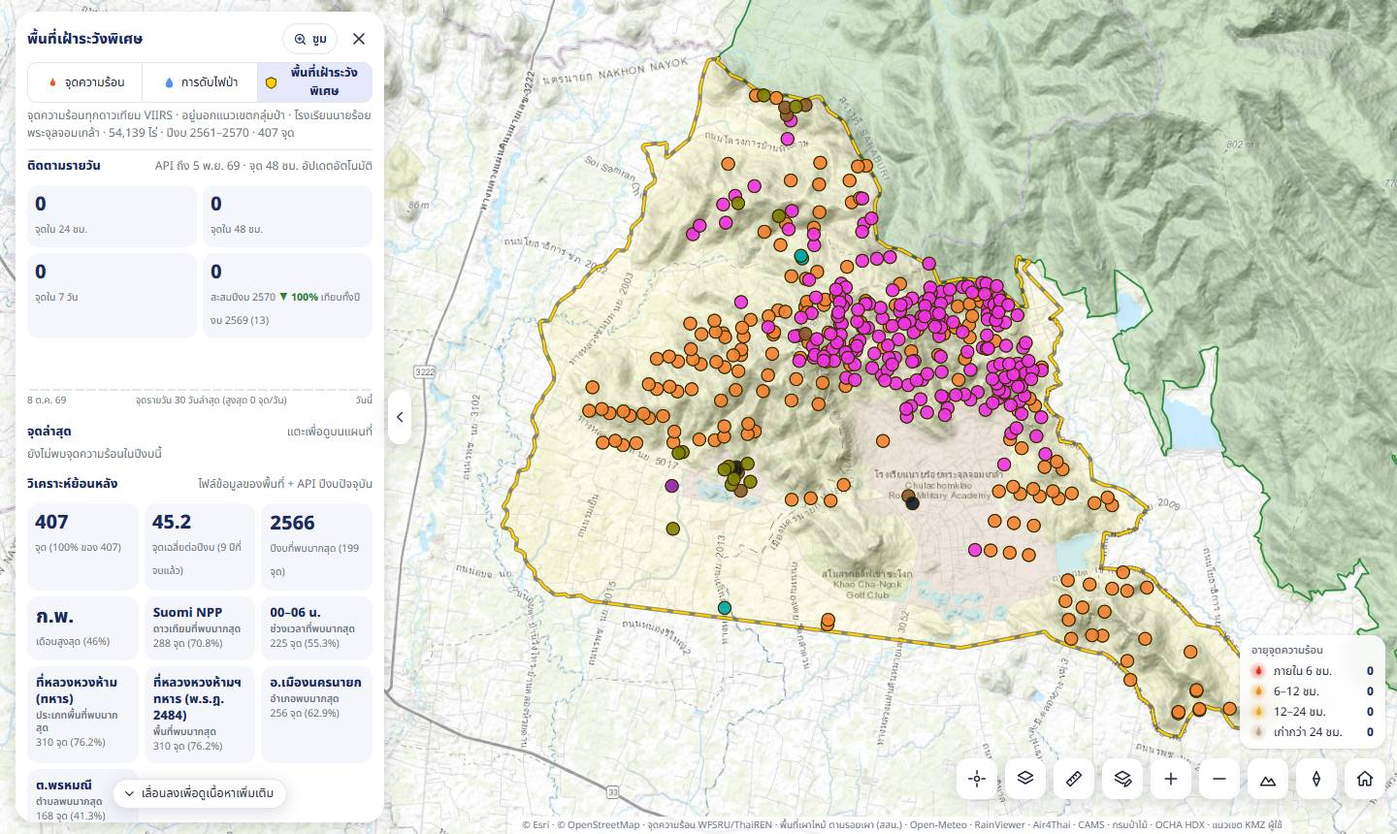
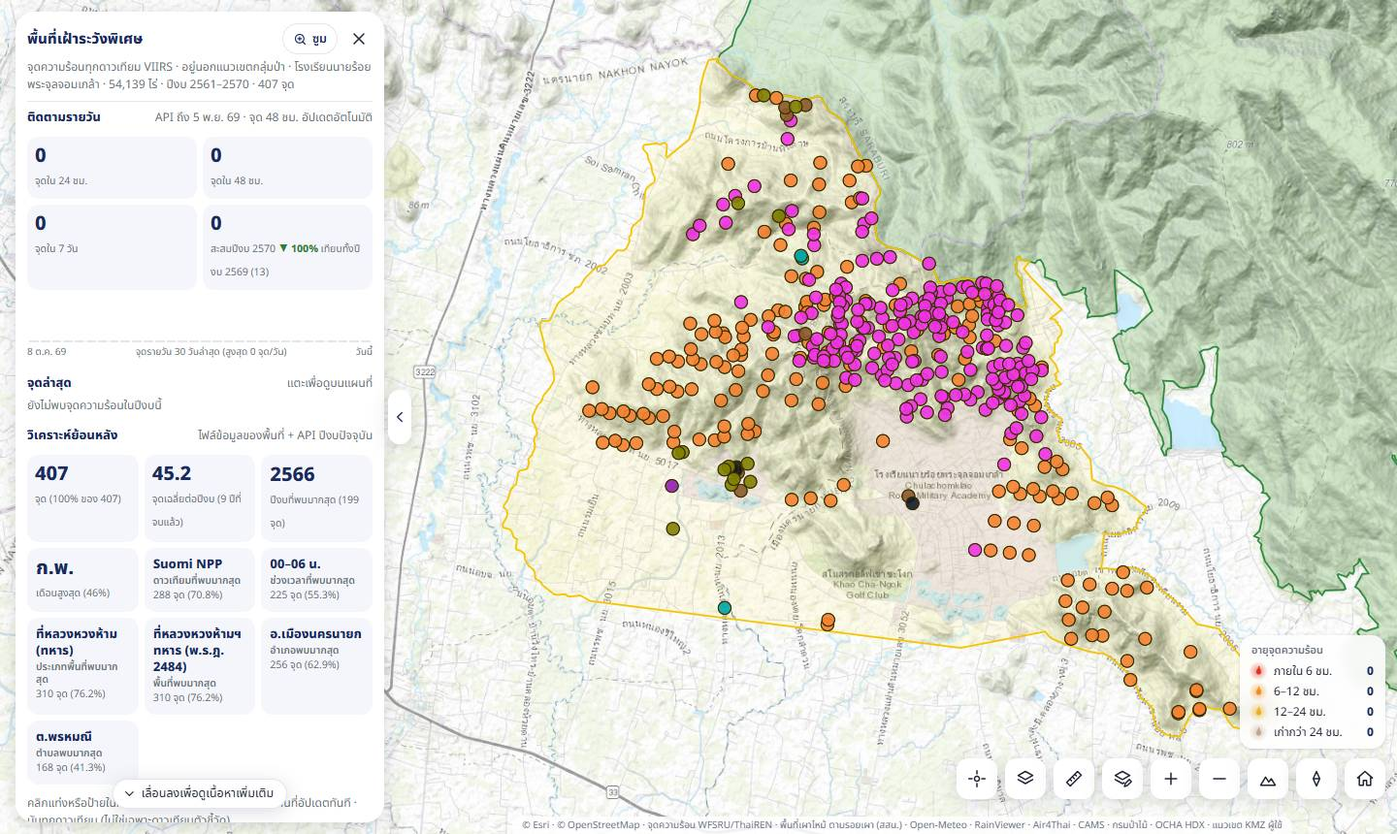
พื้นที่เฝ้าระวังพิเศษ: ย้ายจากแท็บการ์ดสถิติเป็นปุ่มเมนูหลักแถว 3 (3 ปุ่ม) · ชื่อหมวดชั้นข้อมูล "พื้นที่เฝ้าระวังพิเศษ" · เส้นแนวเขตเหลืองเส้นเดียวกว้างเท่าพื้นที่อนุรักษ์ · แก้ตัวอักษรข้อสังเกตใหญ่ผิดปกติ · เมนู "ความสำคัญ" → "ข้อมูลพื้นฐาน" + คู่มือ/ภาพ

diff --git a/index.html b/index.html
@@ -55,9 +55,9 @@ h1 small{display:block;font-size:.42em;font-weight:600;color:var(--mut);margin-t
 .st b{text-align:right;font-size:22px;line-height:1.25;font-weight:800}
 .st b:first-child{color:var(--fire)}.st span{align-self:center}
 .sm{font-size:12px;color:var(--mut)}
-.btns{display:grid;grid-template-columns:1fr 1fr;gap:8px;margin:12px 0} /* 2 คอลัมน์เท่ากัน กว้างเต็มแผงเสมอกับกล่องบน-ล่าง (ผู้ใช้ขอ 5 พ.ย. 69) */
+.btns{display:grid;grid-template-columns:repeat(6,1fr);gap:8px;margin:12px 0}.btns>.btn{grid-column:span 3}.btns>.btn.b3{grid-column:span 2;flex-direction:column;justify-content:center;align-items:center;text-align:center;gap:3px;padding:6px 4px;font-size:12px;line-height:1.2} /* แถว 3 มี 3 ปุ่ม (ผู้ใช้ขอ 6 พ.ย. 69) ไอคอนบน ข้อความล่าง */ /* 2 คอลัมน์เท่ากัน กว้างเต็มแผงเสมอกับกล่องบน-ล่าง (ผู้ใช้ขอ 5 พ.ย. 69) */
 .btns>.btn{justify-content:flex-start;min-width:0;min-height:42px;padding:6px 12px;line-height:1.25;text-align:left}.btns>.btn span{min-width:0}
-@media(max-width:767px){.btns>.btn{padding:6px 10px;gap:5px;font-size:12.5px}}#bDev{display:flex;align-items:center;justify-content:center;gap:5px;width:min(335px,100%);margin:12px 0 0;padding:8px;border:0;background:var(--glass);backdrop-filter:blur(6px);box-shadow:0 1px 4px rgba(20,30,60,.12);font:inherit;font-size:12px;color:var(--mut);text-align:center;cursor:pointer;border-radius:20px}#bDev:hover{color:var(--navy);background:var(--sel)}#bDev .i{width:14px;height:14px;flex:none}#bDev b{font-weight:600;color:var(--ink)}#bDev:hover b{color:var(--navy)}.dvb{display:flex;gap:14px;align-items:flex-start}.dvb .dva{flex:none;width:52px;height:52px;border-radius:50%;background:var(--sel);color:var(--navy);display:grid;place-items:center}.dvb .dva .i{width:26px;height:26px}.dvb p{margin:0 0 4px;line-height:1.6}.dvb .dvn{font-size:17px;font-weight:700;color:var(--navy)}.dvb .dvo{color:var(--mut);font-size:13.5px}.btn[aria-pressed=true]{background:var(--sel);color:var(--navy)}
+@media(max-width:767px){.btns>.btn{padding:6px 10px;gap:5px;font-size:12.5px}.btns>.btn.b3{padding:6px 3px;gap:3px;font-size:11.5px}}#bDev{display:flex;align-items:center;justify-content:center;gap:5px;width:min(335px,100%);margin:12px 0 0;padding:8px;border:0;background:var(--glass);backdrop-filter:blur(6px);box-shadow:0 1px 4px rgba(20,30,60,.12);font:inherit;font-size:12px;color:var(--mut);text-align:center;cursor:pointer;border-radius:20px}#bDev:hover{color:var(--navy);background:var(--sel)}#bDev .i{width:14px;height:14px;flex:none}#bDev b{font-weight:600;color:var(--ink)}#bDev:hover b{color:var(--navy)}.dvb{display:flex;gap:14px;align-items:flex-start}.dvb .dva{flex:none;width:52px;height:52px;border-radius:50%;background:var(--sel);color:var(--navy);display:grid;place-items:center}.dvb .dva .i{width:26px;height:26px}.dvb p{margin:0 0 4px;line-height:1.6}.dvb .dvn{font-size:17px;font-weight:700;color:var(--navy)}.dvb .dvo{color:var(--mut);font-size:13.5px}.btn[aria-pressed=true]{background:var(--sel);color:var(--navy)}
 .btn{display:inline-flex;align-items:center;gap:6px;min-height:40px;padding:0 14px;background:var(--bg);border:0;border-radius:14px;box-shadow:var(--sh);font-size:13px}
 a.btn{color:inherit;text-decoration:none;cursor:pointer}
 .card{background:var(--bg);border-radius:20px;box-shadow:var(--sh);width:min(335px,100%);padding:12px}
@@ -294,7 +294,7 @@ hr.l{border:0;border-top:1px solid var(--line);margin:10px 0}
 /* ตัวเลือกประเภทพื้นที่/ช่วงเวลา/การจัดการเชื้อเพลิง: แถวเดียว ปุ่มกว้างเท่ากัน ชื่อบน ตัวเลขล่าง (ผู้ใช้ขอให้กระชับ) */
 .chs.r1{flex-wrap:nowrap;gap:4px}.chs.r1 .ch{flex:1 1 0;min-width:0;display:flex;flex-direction:column;align-items:center;justify-content:center;padding:3px 2px;border-radius:12px;line-height:1.3;text-align:center}@media(max-width:767px){.chs.r1 .ch{font-size:11.5px}}
 .chs.r1 .ch span{max-width:100%;white-space:nowrap;overflow:hidden;text-overflow:ellipsis}.chs.r1 em{font-size:11px}
-#h-ins,#x-ins{margin:4px 0;padding-left:18px;font-size:12.5px}#h-ins li,#x-ins li{margin:4px 0}
+#h-ins,#x-ins,#w-ins{margin:4px 0;padding-left:18px;font-size:12.5px}#h-ins li,#x-ins li,#w-ins li{margin:4px 0}
 .pbr{display:flex;align-items:center;gap:8px}
 #pbf{position:fixed;z-index:6;left:16px;right:16px;bottom:calc(36px + env(safe-area-inset-bottom));width:auto;max-width:640px;margin:0 auto;padding:8px 12px 10px;border-radius:16px}
 #pbf[hidden]{display:none}
@@ -306,7 +306,7 @@ hr.l{border:0;border-top:1px solid var(--line);margin:10px 0}
 .mh{display:flex;align-items:center;gap:8px;padding:12px 16px;border-bottom:1px solid var(--line);position:sticky;top:0;background:var(--bg)}.mh b{flex:1;font-size:17px;color:var(--navy)}.mb{padding:14px 16px}
 .rd{display:flex;align-items:center;gap:8px;min-height:32px;font-size:13px}.rd.dis{opacity:.5}
 .hb,.vb,.ch{user-select:none;-webkit-user-select:none}
-#hcard.xtm .hs-only,#hcard:not(.xtm) .xt-only{display:none!important}#hcard.wam .hs-only,#hcard:not(.wam) .wa-only{display:none!important}
+#hcard.xtm .hs-only,#hcard:not(.xtm) .xt-only{display:none!important}#hcard.wam .hs-only,#hcard:not(.wam) .wa-only,#hcard.wam #h-tab{display:none!important}
 .kp [data-wk]{cursor:pointer;border:1.5px solid transparent}.kp [data-wk]:hover{border-color:#c9d1e3}.kp [data-wk].on{border-color:var(--navy);background:var(--sel)}
 .kp.w2{grid-template-columns:repeat(2,1fr)}.kp.w2 em.up{color:#c0392b}.kp.w2 em.dn{color:#2e7d32}.kp.w2 em.eq{color:var(--mut)}
 .wdb{display:flex;align-items:flex-end;gap:2px;height:44px;margin:6px 0 2px;padding:0 2px}.wdb i{flex:1;background:#e8741c;border-radius:2px 2px 0 0}.wdb i.z{background:#e3e6ea}
@@ -461,7 +461,7 @@ hr.l{border:0;border-top:1px solid var(--line);margin:10px 0}
 <div id="ld" role="status">กำลังโหลดแผนที่…</div>
 <div id="map"></div>
 <canvas id="wc" aria-hidden="true"></canvas><div id="tip"></div>
-<div id="kb" hidden role="dialog" aria-modal="true" aria-labelledby="kb-t"><div class="kb-top"><span class="kb-lg"><svg class="i" viewBox="0 0 24 24"><path d="M5 19c9 0 14-6 14-14-8 0-14 5-14 14zM5 19l6-6"/></svg></span><div><b id="kb-t">ความสำคัญของผืนป่า</b><small>กลุ่มป่าดงพญาเย็น-เขาใหญ่ · มรดกโลกทางธรรมชาติ · ความรู้รายพื้นที่อนุรักษ์</small></div><button class="cb ib" id="kb-x" aria-label="ปิดหน้าความสำคัญ"><svg class="i" viewBox="0 0 24 24"><path d="M6 6l12 12M18 6L6 18"/></svg></button></div><nav class="kb-nav" id="kb-nav" role="tablist" aria-label="เลือกพื้นที่"></nav><div class="kb-body" id="kb-body"><div class="kb-in"><section class="kb-hero" id="kb-hero"></section><div class="kb-grid"><div class="kb-mapw"><div id="kb-map" role="region" aria-label="แผนที่ประกอบ"></div><div class="kb-mt" id="kb-mt"><button data-b="topo" aria-pressed="true">ภูมิประเทศ</button><button data-b="img" aria-pressed="false">ดาวเทียม</button><button data-b="ft" aria-pressed="false">ชนิดป่า</button></div><div class="kb-ml" id="kb-ml"></div></div><div class="kb-cards" id="kb-c"></div></div><div class="kb-src" id="kb-src"></div></div></div></div>
+<div id="kb" hidden role="dialog" aria-modal="true" aria-labelledby="kb-t"><div class="kb-top"><span class="kb-lg"><svg class="i" viewBox="0 0 24 24"><path d="M5 19c9 0 14-6 14-14-8 0-14 5-14 14zM5 19l6-6"/></svg></span><div><b id="kb-t">ข้อมูลพื้นฐานของผืนป่า</b><small>กลุ่มป่าดงพญาเย็น-เขาใหญ่ · มรดกโลกทางธรรมชาติ · ความรู้รายพื้นที่อนุรักษ์</small></div><button class="cb ib" id="kb-x" aria-label="ปิดหน้าข้อมูลพื้นฐาน"><svg class="i" viewBox="0 0 24 24"><path d="M6 6l12 12M18 6L6 18"/></svg></button></div><nav class="kb-nav" id="kb-nav" role="tablist" aria-label="เลือกพื้นที่"></nav><div class="kb-body" id="kb-body"><div class="kb-in"><section class="kb-hero" id="kb-hero"></section><div class="kb-grid"><div class="kb-mapw"><div id="kb-map" role="region" aria-label="แผนที่ประกอบ"></div><div class="kb-mt" id="kb-mt"><button data-b="topo" aria-pressed="true">ภูมิประเทศ</button><button data-b="img" aria-pressed="false">ดาวเทียม</button><button data-b="ft" aria-pressed="false">ชนิดป่า</button></div><div class="kb-ml" id="kb-ml"></div></div><div class="kb-cards" id="kb-c"></div></div><div class="kb-src" id="kb-src"></div></div></div></div>
 <div id="wy" hidden role="dialog" aria-modal="true" aria-labelledby="wy-t"><div class="wy-h"><span class="kb-lg" style="background:linear-gradient(135deg,#4aa3df,#1b3a6b)"><svg class="i" viewBox="0 0 24 24"><path d="M3 8h11a3 3 0 10-3-3M3 12h16a3 3 0 11-3 3M3 16h7"/></svg></span><b id="wy-t" title="Windy · แบบจำลอง ECMWF (ฝุ่น = CAMS) · กดปุ่มเล่นด้านล่างเพื่อดูพยากรณ์ล่วงหน้า · แตะแผนที่เพื่อดูค่าของจุดนั้น · ไม่มีแนวเขตกลุ่มป่า">พยากรณ์อากาศ</b><nav class="kb-nav wy-nav" id="wy-nav" role="tablist" aria-label="เลือกชั้นข้อมูลอากาศ"></nav><button class="wy-dt" id="wy-dt" aria-pressed="false" title="แสดง/ซ่อนตารางพยากรณ์รายชั่วโมงของจุดกลางแผนที่ (ซ่อนแล้วแผนที่ใหญ่ขึ้น)"><svg class="i" viewBox="0 0 24 24"><rect x="3" y="4" width="18" height="16" rx="2"/><path d="M3 10h18M9 10v10"/></svg><span>ตารางพยากรณ์</span></button><button class="cb ib" id="wy-x" aria-label="ปิดหน้าพยากรณ์อากาศ"><svg class="i" viewBox="0 0 24 24"><path d="M6 6l12 12M18 6L6 18"/></svg></button></div><iframe id="wy-f" title="แผนที่พยากรณ์อากาศ Windy" allow="fullscreen"></iframe></div>
 <div class="md" id="md" hidden role="dialog" aria-modal="true" aria-labelledby="md-t"><div class="mc"><div class="mh"><b id="md-t"></b><button class="cb ib" id="md-x" aria-label="ปิด"><svg class="i" viewBox="0 0 24 24"><path d="M6 6l12 12M18 6L6 18"/></svg></button></div><div class="mb" id="md-b"></div></div></div>
 <div id="toast" role="status"></div>
@@ -480,11 +480,12 @@ hr.l{border:0;border-top:1px solid var(--line);margin:10px 0}
  </div>
  <div class="btns">
   <button class="btn" id="bHide" aria-pressed="true" title="แสดง/ซ่อนการ์ดจุดความร้อนที่ตรวจพบ"><svg class="i" viewBox="0 0 24 24"><path d="M12 3c1 3.5 5 5.5 5 10a5 5 0 01-10 0c0-2.5 1.5-4 2.5-5.5.3 1.6 1 2.6 2 3 0-3 .5-5.5.5-7.5z"/></svg><span>จุดความร้อนที่ตรวจพบ</span></button>
-  <button class="btn" id="bKnow" title="ความสำคัญ ประวัติ ทรัพยากร สัตว์ป่า แหล่งท่องเที่ยว รายพื้นที่อนุรักษ์"><svg class="i" viewBox="0 0 24 24"><path d="M5 19c9 0 14-6 14-14-8 0-14 5-14 14zM5 19l6-6"/></svg>ความสำคัญ</button>
+  <button class="btn" id="bKnow" title="ข้อมูลพื้นฐาน: ความสำคัญ ประวัติ ทรัพยากร สัตว์ป่า แหล่งท่องเที่ยว รายพื้นที่อนุรักษ์"><svg class="i" viewBox="0 0 24 24"><path d="M5 19c9 0 14-6 14-14-8 0-14 5-14 14zM5 19l6-6"/></svg>ข้อมูลพื้นฐาน</button>
   <button class="btn" id="bWy" title="แผนที่พยากรณ์อากาศ Windy: ลม ฝน ฟ้าคะนอง อุณหภูมิ ความชื้น เมฆ ฝุ่น"><svg class="i" viewBox="0 0 24 24"><path d="M3 8h11a3 3 0 10-3-3M3 12h16a3 3 0 11-3 3M3 16h7"/></svg>พยากรณ์อากาศ</button>
   <button class="btn" id="bStat"><svg class="i" viewBox="0 0 24 24"><path d="M4 20h16M7 16v-5M12 16V6M17 16v-8"/></svg>วิเคราะห์สถิติย้อนหลัง</button>
-  <button class="btn" id="bPlay"><svg class="i" viewBox="0 0 24 24"><path d="M3 12a9 9 0 109-9 9 9 0 00-6.4 2.6L3 8M3 3v5h5M12 7v5l3 2"/></svg>ย้อนดูการลามของไฟ</button>
-  <a class="btn" id="bMan" href="manual/index.html" target="_blank" rel="noopener" title="คู่มือการใช้งาน: ส่วนประกอบหน้าจอ เมนู ชั้นข้อมูล ที่มาข้อมูล วิธีคิด และการอ้างอิง"><svg class="i" viewBox="0 0 24 24"><path d="M4 5a2 2 0 012-2h13v16H6a2 2 0 00-2 2zM4 21V5M9 7h6"/></svg>คู่มือการใช้งาน</a>
+  <button class="btn b3" id="bWch" title="พื้นที่เฝ้าระวังพิเศษ (โรงเรียนนายร้อยพระจุลจอมเกล้า): ติดตามจุดความร้อนรายวันและวิเคราะห์ย้อนหลัง"><svg class="i" viewBox="0 0 24 24"><path d="M12 3l8 3.5v5.5c0 4.5-3.5 7.5-8 9-4.5-1.5-8-4.5-8-9V6.5z" style="fill:#ffd000;stroke:#6b5200"/><circle cx="12" cy="11.5" r="2.6" style="fill:#fff;stroke:#6b5200"/></svg><span>พื้นที่เฝ้าระวังพิเศษ</span></button>
+  <button class="btn b3" id="bPlay"><svg class="i" viewBox="0 0 24 24"><path d="M3 12a9 9 0 109-9 9 9 0 00-6.4 2.6L3 8M3 3v5h5M12 7v5l3 2"/></svg>ย้อนดูการลามของไฟ</button>
+  <a class="btn b3" id="bMan" href="manual/index.html" target="_blank" rel="noopener" title="คู่มือการใช้งาน: ส่วนประกอบหน้าจอ เมนู ชั้นข้อมูล ที่มาข้อมูล วิธีคิด และการอ้างอิง"><svg class="i" viewBox="0 0 24 24"><path d="M4 5a2 2 0 012-2h13v16H6a2 2 0 00-2 2zM4 21V5M9 7h6"/></svg>คู่มือการใช้งาน</a>
  </div>
  <div class="card" id="pcard" aria-label="สรุปจุดความร้อนที่ตรวจพบ">
   <div class="ph"><b>จุดความร้อนที่ตรวจพบ</b><span class="smp" id="p-smp" title="ยอดสะสมปีงบประมาณปัจจุบันเป็นข้อมูลตัวอย่าง เพราะ API ให้ข้อมูลย้อนหลังเพียง 48 ชม. และระบบยังไม่ได้เก็บสะสม">ข้อมูลตัวอย่าง</span></div>
@@ -509,7 +510,7 @@ hr.l{border:0;border-top:1px solid var(--line);margin:10px 0}
   <div class="pbt"><button id="p-tbl"><svg class="i" viewBox="0 0 24 24"><rect x="3" y="4" width="18" height="16" rx="2"/><path d="M3 10h18M9 10v10"/></svg>ตารางรายละเอียด</button><button id="p-csv"><svg class="i" viewBox="0 0 24 24"><path d="M12 4v11m0 0l-4-4m4 4l4-4M5 20h14"/></svg>ดาวน์โหลด CSV</button><button id="p-pdf"><svg class="i" viewBox="0 0 24 24"><path d="M7 8V3h10v5M7 17H4v-7h16v7h-3M7 14h10v7H7z"/></svg>รายงาน PDF</button></div>
  </div>
 <div class="card hc" id="hcard" hidden aria-label="สถิติจุดความร้อนย้อนหลัง">
-  <div class="hh"><b class="ht" id="h-ttl">สถิติจุดความร้อนย้อนหลัง</b><button class="hp" id="h-fit" aria-label="ซูมไปที่ข้อมูลที่กรอง" title="ซูมไปที่ข้อมูลที่กรอง"><svg class="i" viewBox="0 0 24 24"><circle cx="11" cy="11" r="7"/><path d="M20 20l-4-4M11 8v6M8 11h6"/></svg>ซูม</button><button class="hp" id="h-rs" hidden aria-label="รีเซ็ตตัวกรอง">รีเซ็ต</button><button class="cb ib" id="h-x" aria-label="ปิดการ์ดสถิติ"><svg class="i" viewBox="0 0 24 24"><path d="M6 6l12 12M18 6L6 18"/></svg></button><div class="seg htab" id="h-tab" role="group" aria-label="ชุดข้อมูลสถิติย้อนหลัง"><button data-v="hs"><svg class="i" viewBox="0 0 24 24"><path d="M12 2c1 4-4 6-4 11a4 4 0 008 0c0-2-1-3-1-5-1 1-1.5 2-2 2 1-3 0-6-1-8z" style="fill:#e8541c;stroke:none"/></svg>จุดความร้อน</button><button data-v="xt"><svg class="i" viewBox="0 0 24 24"><path d="M12 3s6 7 6 11a6 6 0 01-12 0c0-4 6-11 6-11z" style="fill:#5b8def;stroke:none"/></svg>การดับไฟป่า</button><button data-v="wa"><svg class="i" viewBox="0 0 24 24"><path d="M12 3l8 3.5v5.5c0 4.5-3.5 7.5-8 9-4.5-1.5-8-4.5-8-9V6.5z" style="fill:#ffd000;stroke:#6b5200"/></svg>พื้นที่เฝ้าระวังพิเศษ</button></div><div class="sm hsub"><span class="hs-only">ข้อมูลจากดาวเทียม ตัวชี้วัดกรมอุทยานฯ Suomi NPP (ตั้งแต่ 2 พ.ย. 69 ใช้ NOAA-20) ระบบ VIIRS · <span id="h-rng"></span></span><span class="xt-only">ข้อมูลการดับไฟป่าจากรายงานสถิติดับไฟรวม อส. · <span id="x-rng"></span></span><span class="wa-only">จุดความร้อนทุกดาวเทียม VIIRS · อยู่นอกแนวเขตกลุ่มป่า · <span id="w-rng"></span></span></div></div>
+  <div class="hh"><b class="ht" id="h-ttl">สถิติจุดความร้อนย้อนหลัง</b><button class="hp" id="h-fit" aria-label="ซูมไปที่ข้อมูลที่กรอง" title="ซูมไปที่ข้อมูลที่กรอง"><svg class="i" viewBox="0 0 24 24"><circle cx="11" cy="11" r="7"/><path d="M20 20l-4-4M11 8v6M8 11h6"/></svg>ซูม</button><button class="hp" id="h-rs" hidden aria-label="รีเซ็ตตัวกรอง">รีเซ็ต</button><button class="cb ib" id="h-x" aria-label="ปิดการ์ดสถิติ"><svg class="i" viewBox="0 0 24 24"><path d="M6 6l12 12M18 6L6 18"/></svg></button><div class="seg htab" id="h-tab" role="group" aria-label="ชุดข้อมูลสถิติย้อนหลัง"><button data-v="hs"><svg class="i" viewBox="0 0 24 24"><path d="M12 2c1 4-4 6-4 11a4 4 0 008 0c0-2-1-3-1-5-1 1-1.5 2-2 2 1-3 0-6-1-8z" style="fill:#e8541c;stroke:none"/></svg>จุดความร้อน</button><button data-v="xt"><svg class="i" viewBox="0 0 24 24"><path d="M12 3s6 7 6 11a6 6 0 01-12 0c0-4 6-11 6-11z" style="fill:#5b8def;stroke:none"/></svg>การดับไฟป่า</button></div><div class="sm hsub"><span class="hs-only">ข้อมูลจากดาวเทียม ตัวชี้วัดกรมอุทยานฯ Suomi NPP (ตั้งแต่ 2 พ.ย. 69 ใช้ NOAA-20) ระบบ VIIRS · <span id="h-rng"></span></span><span class="xt-only">ข้อมูลการดับไฟป่าจากรายงานสถิติดับไฟรวม อส. · <span id="x-rng"></span></span><span class="wa-only">จุดความร้อนทุกดาวเทียม VIIRS · อยู่นอกแนวเขตกลุ่มป่า · <span id="w-rng"></span></span></div></div>
   <div class="hs-only" id="hsb"><div class="seg" id="h-per" role="group" aria-label="ช่วงปีงบที่แสดง"><button data-v="3">3 ปีย้อนหลัง</button><button data-v="5">5 ปีย้อนหลัง</button><button data-v="0">ทุกปี</button></div><div class="sm" id="h-pern"></div>
   <div class="sats xdy" data-xdy></div>
   <div class="kp" id="h-kp"></div>
@@ -678,7 +679,7 @@ hr.l{border:0;border-top:1px solid var(--line);margin:10px 0}
   <div class="row" data-tip="ตำแหน่งตามไฟล์ KMZ ของผู้ใช้ · ซูมเข้าเพื่อดูชื่อสถานีฯ"><svg class="i" style="color:#2a6fdb" viewBox="0 0 24 24"><path d="M12 3l8 3.5v5.5c0 4.5-3.5 7.5-8 9-4.500-1.500-8-4.500-8-9V6.500z"/></svg><b>สถานีควบคุมไฟป่า</b><span class="tag">8 แห่ง</span><button class="sw" data-k="stn" role="switch" aria-label="สถานีควบคุมไฟป่า"></button></div>
   <div class="row" data-tip="จุดเฝ้าระวังไฟป่า ปี 2569 ตามไฟล์ KMZ ของผู้ใช้ · ซูมเข้าเพื่อดูรหัสจุด"><svg class="i" viewBox="0 0 24 24"><path d="M12 2.5l2.8 6.2 6.7.6-5.1 4.5 1.5 6.7L12 17l-5.9 3.5 1.5-6.7-5.1-4.5 6.7-.6z" style="fill:#e11d2e;stroke:#3b0a0f"/></svg><b>จุดเฝ้าระวังไฟป่า</b><span class="tag" id="c-wpt">–</span><button class="sw" data-k="wpt" role="switch" aria-label="จุดเฝ้าระวังไฟป่า"></button></div>
 
-  <h3>พื้นที่เฝ้าระวังเป็นพิเศษ</h3>
+  <h3>พื้นที่เฝ้าระวังพิเศษ</h3>
   <div class="row" data-tip="แนวเขตพื้นที่บริเวณโรงเรียนนายร้อยพระจุลจอมเกล้า (KMZ ของผู้ใช้ 54,139 ไร่) อยู่นอกแนวเขตกลุ่มป่า · แสดงจุดความร้อน 48 ชม. ในพื้นที่ทุกดาวเทียม แยกจากยอดของกลุ่มป่า · ติดตามรายวันและวิเคราะห์ย้อนหลังในการ์ดวิเคราะห์สถิติ แท็บ &quot;พื้นที่เฝ้าระวังพิเศษ&quot; · แจ้งเตือนจุดใหม่ทาง LINE/Telegram"><svg class="i" viewBox="0 0 24 24"><path d="M12 3l8 3.5v5.5c0 4.5-3.5 7.5-8 9-4.5-1.5-8-4.5-8-9V6.5z" style="fill:#ffd000;stroke:#6b5200"/><circle cx="12" cy="11.5" r="2.6" style="fill:#fff;stroke:#6b5200"/></svg><b>โรงเรียนนายร้อยพระจุลจอมเกล้า</b><span class="tag" id="wch-t">–</span><button class="sw" data-k="wch" role="switch" aria-label="พื้นที่เฝ้าระวังพิเศษ โรงเรียนนายร้อยพระจุลจอมเกล้า"></button></div>
   <div id="wchbox" hidden><div id="wch-a"></div><button class="lk" id="wch-z">ซูมไปที่พื้นที่</button><button class="lk" id="wch-o">เปิดการ์ดติดตามรายวัน / วิเคราะห์ย้อนหลัง →</button></div>
 
@@ -2578,7 +2579,7 @@ function fillHist(h){const nr=nearestHist(h.lat,h.lon),near=[];for(const r of HD
  const mx=Math.max(1,...fys.map(y=>cf.get(y)||0));tx('hx-b',fys.map(y=>{const c=cf.get(y)||0;return`<div class="vb"><em>${c?nf(c):''}</em><i style="height:${c?`max(3px,calc((100% - 26px)*${(c/mx).toFixed(3)}))`:'0'};background:${fyColor(y)}"></i><span>${String(y).slice(2)}</span></div>`}).join(''));
  tx('hx-n',n2?'ประมาณจากจุดย้อนหลังในไฟล์ Excel (ไม่ใช่การหาตำแหน่งในแนวเขตจริง)':'ไม่เคยพบจุดย้อนหลังในรัศมี 2 กม. ซึ่งไม่ได้แปลว่าไม่มีความเสี่ยง (ข้อมูลย้อนหลังเป็นจุดจากดาวเทียมเท่านั้น)')}
 $('#hx-m').onclick=()=>{S.hist=true;apply();hRender();toast('เปิดชั้นจุดความร้อนย้อนหลังแล้ว')};
-$('#bStat').onclick=()=>HOPEN?hClose():hOpen();$('#bPlay').onclick=()=>hOpen(true);$('#hs-o').onclick=()=>hOpen(false,'hs');$('#xt-o').onclick=()=>hOpen(false,'xt');$('#h-tab').onclick=e=>{const b=e.target.closest('[data-v]');if(b&&b.dataset.v!==HTAB)hTab(b.dataset.v)};$('#h-x').onclick=hClose;
+$('#bStat').onclick=()=>HOPEN&&HTAB!=='wa'?hClose():hOpen(false,HTAB==='wa'?'hs':HTAB);$('#bWch').onclick=()=>HOPEN&&HTAB==='wa'?hClose():hOpen(false,'wa'); // พื้นที่เฝ้าระวังพิเศษ = เมนูหลักแยก (ผู้ใช้ขอ 6 พ.ย. 69)$('#bPlay').onclick=()=>hOpen(true);$('#hs-o').onclick=()=>hOpen(false,'hs');$('#xt-o').onclick=()=>hOpen(false,'xt');$('#h-tab').onclick=e=>{const b=e.target.closest('[data-v]');if(b&&b.dataset.v!==HTAB)hTab(b.dataset.v)};$('#h-x').onclick=hClose;
 $('#bHide').onclick=()=>{const t=HOPEN?$('#hcard'):$('#pcard'),h=t.hidden=!t.hidden;$('#bHide').setAttribute('aria-pressed',!h);pbPos()};
 $('#hcard').addEventListener('click',e=>{const b=e.target.closest('[data-k]');if(!b)return;const k=b.dataset.k,v=Number(b.dataset.v);HF[k].has(v)?HF[k].delete(v):HF[k].add(v);if(PB.on)PB.i=0;hRender()});
 $('#h-rs').onclick=()=>{if(HTAB==='xt'){xtDef();xtRender()}else if(HTAB==='wa'){wDef();wtRender()}else{hDef();hRender()}};
@@ -2857,8 +2858,7 @@ function wlvSet(){const s=map.getSource('wlv');s&&s.setData(wlvFC())}
 function setupWT(){if(!WAR.length)return;WFC=wFC();const bf=map.getLayer('hot-glow')?'hot-glow':undefined;
  map.addSource('wch',{type:'geojson',data:wchFC()});
  map.addLayer({id:'wch-f',type:'fill',source:'wch',layout:{visibility:'none'},paint:{'fill-color':'#ffd000','fill-opacity':.08}},bf);
- map.addLayer({id:'wch-c',type:'line',source:'wch',layout:{visibility:'none','line-join':'round'},paint:{'line-color':'#3b2f00','line-width':4.2,'line-opacity':.55}},bf);
- map.addLayer({id:'wch-l',type:'line',source:'wch',layout:{visibility:'none','line-join':'round'},paint:{'line-color':'#ffd000','line-width':2.2,'line-dasharray':[4,1.5]}},bf);
+ map.addLayer({id:'wch-l',type:'line',source:'wch',layout:{visibility:'none','line-join':'round'},paint:{'line-color':'#f5c400','line-width':1.8}},bf);
  const p={'circle-radius':['interpolate',['linear'],['zoom'],8,3.5,12,6.5],'circle-color':wColor(),'circle-opacity':.9,'circle-stroke-color':'#3b2f00','circle-stroke-width':1.3};
  map.addSource('wts',{type:'geojson',data:WFC});map.addSource('wtc',{type:'geojson',cluster:true,clusterRadius:40,clusterMaxZoom:13,data:WFC});
  map.addLayer({id:'wt-h',type:'heatmap',source:'wts',layout:{visibility:'none'},paint:{'heatmap-weight':.8,'heatmap-intensity':['interpolate',['linear'],['zoom'],8,.8,13,1.8],'heatmap-radius':['interpolate',['linear'],['zoom'],8,10,11,22,14,40],'heatmap-opacity':.85,
@@ -2872,7 +2872,7 @@ function setupWT(){if(!WAR.length)return;WFC=wFC();const bf=map.getLayer('hot-gl
  map.addLayer({id:'wlv-icon',type:'symbol',source:'wlv',layout:{visibility:'none','icon-image':['concat','f-',['get','g']],'icon-size':['interpolate',['linear'],['zoom'],6,.55,12,.9],'icon-allow-overlap':true},paint:{'icon-opacity':['match',['get','g'],'b',.6,1]}});
  LW()}
 function LW(){if(!WAR.length)return;const set=(id,b)=>map.getLayer(id)&&map.setLayoutProperty(id,'visibility',b?'visible':'none'),on=S.wch||S.wst;
- ['wch-f','wch-c','wch-l'].forEach(id=>set(id,on));set('wt-h',S.wst&&WM.mode==='heat');set('wt-c',S.wst&&WM.mode==='pt');['wtc-cl','wtc-n','wtc-p'].forEach(id=>set(id,S.wst&&WM.mode==='cl'));
+ ['wch-f','wch-l'].forEach(id=>set(id,on));set('wt-h',S.wst&&WM.mode==='heat');set('wt-c',S.wst&&WM.mode==='pt');['wtc-cl','wtc-n','wtc-p'].forEach(id=>set(id,S.wst&&WM.mode==='cl'));
  set('wlv-glow',S.hot&&on&&!S.d3);set('wlv-icon',S.hot&&on&&!S.d3);
  const b=document.getElementById('wchbox');if(b)b.hidden=!S.wch;wchInfo()}
 /* บรรทัดสรุปในแผงชั้นข้อมูล + ป้ายในการ์ดจุดความร้อน (ติดตามรายวัน) */
@@ -2892,7 +2892,7 @@ function wtRender(){wBuild();const F=wfilt(),fys=wfyList(),a=wArea();
  wchips('w-sat','sat',[...new Set(WBA().map(r=>r.sat))].sort(),v=>WSL[v]);wchips('w-hg','hg',[0,1,2,3],v=>WHG[v]);wchips('w-fo','fo',[1,0,2],v=>WFO[v]);wchips('w-src','src',[...new Set(WBA().map(r=>r.src))].sort(),v=>WSRC[v]);
  whbars('w-ty','ty',v=>WD.ty[v]);whbars('w-nm','nm',v=>WD.nm[v]);whbars('w-am','am',wAm);whbars('w-tm','tm',wTm,8);
  const yd=(c,t)=>`<span class="yd"><i style="background:${c}"></i>${esc(t)}</span>`;
- tx('w-lg',(WM.color==='sat'?'สีจุดตามดาวเทียม: '+[...new Set(WBA().map(r=>r.sat))].sort().map(i=>yd(WSC[i],WSL[i])).join(''):WM.color==='ty'?'สีจุดตามประเภทพื้นที่: '+WD.ty.map((v,i)=>yd(WTYC[i%WTYC.length],v)).join(''):'สีจุดตามปีงบ: '+fys.map(y=>yd(fyColor(y),y)).join(''))+' · ขอบน้ำตาล · เส้นประเหลือง = แนวเขตพื้นที่');
+ tx('w-lg',(WM.color==='sat'?'สีจุดตามดาวเทียม: '+[...new Set(WBA().map(r=>r.sat))].sort().map(i=>yd(WSC[i],WSL[i])).join(''):WM.color==='ty'?'สีจุดตามประเภทพื้นที่: '+WD.ty.map((v,i)=>yd(WTYC[i%WTYC.length],v)).join(''):'สีจุดตามปีงบ: '+fys.map(y=>yd(fyColor(y),y)).join(''))+' · ขอบน้ำตาล · เส้นเหลือง = แนวเขตพื้นที่');
  tx('w-ins',wInsights(F).map(t=>`<li>${esc(t)}</li>`).join(''));tx('w-dq',wDq());
  $('#h-rs').hidden=wIsDef();
  $$('#w-md button').forEach(b=>b.classList.toggle('on',b.dataset.v===WM.mode));$$('#w-co button').forEach(b=>b.classList.toggle('on',b.dataset.v===WM.color));
@@ -2929,7 +2929,7 @@ async function buildWReport(){const F=wRows(),a=wArea(),img=await mapSnap(),
  cnt=f=>{const m=new Map();F.forEach(r=>{const v=f(r)||'ไม่ระบุ';m.set(v,(m.get(v)||0)+1)});return[...m].sort((x,y)=>y[1]-x[1])},
  tb=(h,E)=>`<table><thead><tr><th>${h}</th><th>จุด</th><th>%</th></tr></thead><tbody>${E.map(([k,v])=>`<tr><td>${esc(k)}</td><td class="n">${nf(v)}</td><td class="n">${F.length?Math.round(100*v/F.length):0}</td></tr>`).join('')||'<tr><td colspan="3">–</td></tr>'}</tbody></table>`;
  const fys=(WFL.fy.size?[...WFL.fy]:wfyList()).sort((x,y)=>x-y),fc=new Map(),mc=Array(12).fill(0);F.forEach(r=>{fc.set(r.fy,(fc.get(r.fy)||0)+1);mc[r.mo]++});
- $('#rpt').innerHTML=`<h1>รายงานจุดความร้อน พื้นที่เฝ้าระวังเป็นพิเศษ — ${esc(a.n)}</h1><div>สำนักบริหารพื้นที่อนุรักษ์ที่ 1 (ปราจีนบุรี) · พื้นที่ ${nf(a.rai)} ไร่ · ตัวกรอง: ${esc(wLabel())} · ออกรายงาน ${new Date().toLocaleString('th-TH',{dateStyle:'long',timeStyle:'short',timeZone:'Asia/Bangkok'})} น.</div>
+ $('#rpt').innerHTML=`<h1>รายงานจุดความร้อน พื้นที่เฝ้าระวังพิเศษ — ${esc(a.n)}</h1><div>สำนักบริหารพื้นที่อนุรักษ์ที่ 1 (ปราจีนบุรี) · พื้นที่ ${nf(a.rai)} ไร่ · ตัวกรอง: ${esc(wLabel())} · ออกรายงาน ${new Date().toLocaleString('th-TH',{dateStyle:'long',timeStyle:'short',timeZone:'Asia/Bangkok'})} น.</div>
  <h2>1. ติดตามรายวัน</h2><div class="kp">${$('#w-lv').innerHTML}</div>
  <h2>2. ภาพรวม (${nf(F.length)} จุด)</h2><div class="kp">${$('#w-kp').innerHTML}</div>
  <div class="rg"><div><b>จำนวนจุดรายปีงบประมาณ</b>${rBars(fys.map(y=>[y,fc.get(y)||0]),y=>y,'#D93A1F')}</div><div><b>จำนวนจุดรายเดือน (ต.ค.–ก.ย.)</b>${rBars(mc.map((v,i)=>[i,v]),i=>MON[i],'#e8941c')}</div></div>

diff --git a/CLAUDE.md b/CLAUDE.md
@@ -16,7 +16,8 @@
   - `id="wdata"` สร้างโดย `node scripts/import_watch.js <แนวเขต.kmz> <จุด.kmz> [--fy 2561-2569] [--id jpr --name … --short …]` (ห้ามแก้มือ; สำเนา `data/watch.json`): `{areas:[{id,n,s,rai,src,fy:[2561,2569] (จากชื่อไฟล์),bb,c:MultiPolygon}], sat,tm("ต|อ|จ"),nm,ty, r:[[day,hhmm,la5,lo5,sat,tm,nm,ty,forest,area,ลำด]]}` · ไฟล์ต้นฉบับ**ทุกดาวเทียม** S/N20/N21/N ("N" ไม่ระบุดวง) ปีงบ 2563 180 / 2566 199 (S 101 + N20 98) / 2569 13 · ปีงบ 2561–2562 ไม่มีจุด · 4 จุดอยู่นอกแนวเขตเล็กน้อย คงไว้
   - `id="wadata"` สร้างโดย sync_hotspots (`watchAt` ใน `scripts/lib/area.js` + firms.js): `{v,upd,from,to,ids,sat,cf,tm, r:[[day,hhmm,la5,lo5,sat,cf,tm,area(,1=FIRMS)]]}` · ที่เก็บเดียวกับ adata (`r.wa`; adata กรอง `r.ar`) · `store.wdays` = วันที่ดึงพร้อมตัวกรองพื้นที่เฝ้าระวัง — ครั้งแรก/เพิ่มพื้นที่ใหม่ (ลบ wdays) ดึงย้อนหลังทั้งหมด ~10 นาที แต่**วันเก่ารับเฉพาะจุดพื้นที่เฝ้าระวัง และไม่เติม FIRMS** (ไม่ให้ adata ย้อนหลังเปลี่ยน — ตรวจแล้ว adata 482 เท่าเดิม) · ปีงบ 2569 API 17 จุด (ไฟล์ 13)
   - build_site → `_site/watch.json` {features 48 ชม. (`_w`), sum:{fy, areas[{fy (ทุกดวง), prv, pfull, m, pm, sat, tm, h24, h48, last, src}]}} · **live.json ไม่มีจุดพื้นที่เฝ้าระวัง** (Worker/การ์ดเดิมนับจาก live.json) · ปีงบ ≤ ปีสุดท้ายของไฟล์ = ไฟล์, หลังจากนั้น = API + 48 ชม.
-  - หน้าเว็บ: หมวด "พื้นที่เฝ้าระวังเป็นพิเศษ" ในแผงชั้นข้อมูล สวิตช์ `S.wch` (**ค่าเริ่มต้นเปิด**) + `#wchbox` · ชั้น `wch-f/c/l` (เส้นประเหลือง) · จุด 48 ชม. `WLAST` (liveList.w / liveFile.w จาก watch.json) ชั้น `wlv-glow/icon` คลิก = openDetail (บรรทัด "พื้นที่เฝ้าระวังพิเศษ" ใน #d-pa) · นับในกล่องอายุจุด · ป้ายเหลือง `#p-wch` ในการ์ดจุดความร้อน · ป๊อปอัปแตะแผนที่ `wchHtml` · แท็บที่ 3 ของการ์ดสถิติ `HTAB='wa'` (`#hcard.wam`, `.wa-only`, `#wab`, `S.wst` ชั้น `wt-*`/`wtc-*`) โมดูลต่อจากสถิติการดับไฟป่า: `WWG`/`WAP`/`WAR` (ชื่อ WG ชนกับตารางลม), `wBuild`→`WR` (src 0 ไฟล์/1 API/2 48 ชม.), ตัวกรอง `WFL`, `wLive` ติดตามรายวัน (24/48 ชม./7 วัน/สะสมปีงบ + แท่ง 30 วัน + จุดล่าสุด), `wKpi`/`wInsights` (เทียบเฉพาะปีงบที่จบแล้ว + ปีนี้เทียบช่วงเดียวกัน), `openWTable`/`wCSV`/`buildWReport` · ลิงก์ตรง `?wa=jpr` (+`&pts=`, `hsWA` หาใน WLAST/WAP) · ตรวจ Chrome headless 1440/390 ไม่มี error
+  - **แก้ตามผู้ใช้ 6 พ.ย. 69 รอบ 2:** การ์ดนี้เปิดจาก**ปุ่มเมนูหลัก `#bWch`** (แถว 3 มี 3 ปุ่ม `.b3` ไอคอนบน ข้อความล่าง: พื้นที่เฝ้าระวังพิเศษ | ย้อนดูการลามของไฟ | คู่มือ — `.btns` กริด 6 คอลัมน์ย่อย) ไม่ใช่แท็บในการ์ดสถิติแล้ว (โหมด wa ซ่อน `#h-tab`; bStat จากโหมด wa = สลับไปแท็บจุดความร้อน, กดปุ่มเดิมซ้ำ = ปิด) · ชื่อหมวดชั้นข้อมูล "พื้นที่เฝ้าระวังพิเศษ" · เส้นแนวเขตสีเหลือง #f5c400 กว้าง 1.8 เท่าเส้นพื้นที่อนุรักษ์ ไม่มีเส้นประ/ขอบเข้ม (ลบ wch-c) · `#w-ins` ใช้ CSS เดียวกับ #h-ins (เดิมตัวอักษรใหญ่) · **เมนู "ความสำคัญ" เปลี่ยนชื่อเป็น "ข้อมูลพื้นฐาน"** (หัวหน้า #kb-t "ข้อมูลพื้นฐานของผืนป่า"; การ์ดภายในยังชื่อ ความสำคัญของพื้นที่) — คู่มือแก้ตามแล้ว + ถ่ายภาพ overview/mobile/know/sw_wch/stats_wa ใหม่
+  - หน้าเว็บ: หมวด "พื้นที่เฝ้าระวังพิเศษ" ในแผงชั้นข้อมูล สวิตช์ `S.wch` (**ค่าเริ่มต้นเปิด**) + `#wchbox` · ชั้น `wch-f/l` · จุด 48 ชม. `WLAST` (liveList.w / liveFile.w จาก watch.json) ชั้น `wlv-glow/icon` คลิก = openDetail (บรรทัด "พื้นที่เฝ้าระวังพิเศษ" ใน #d-pa) · นับในกล่องอายุจุด · ป้ายเหลือง `#p-wch` ในการ์ดจุดความร้อน · ป๊อปอัปแตะแผนที่ `wchHtml` · แท็บที่ 3 ของการ์ดสถิติ `HTAB='wa'` (`#hcard.wam`, `.wa-only`, `#wab`, `S.wst` ชั้น `wt-*`/`wtc-*`) โมดูลต่อจากสถิติการดับไฟป่า: `WWG`/`WAP`/`WAR` (ชื่อ WG ชนกับตารางลม), `wBuild`→`WR` (src 0 ไฟล์/1 API/2 48 ชม.), ตัวกรอง `WFL`, `wLive` ติดตามรายวัน (24/48 ชม./7 วัน/สะสมปีงบ + แท่ง 30 วัน + จุดล่าสุด), `wKpi`/`wInsights` (เทียบเฉพาะปีงบที่จบแล้ว + ปีนี้เทียบช่วงเดียวกัน), `openWTable`/`wCSV`/`buildWReport` · ลิงก์ตรง `?wa=jpr` (+`&pts=`, `hsWA` หาใน WLAST/WAP) · ตรวจ Chrome headless 1440/390 ไม่มี error
   - LINE: `watchCard()` ใน worker (1 ใบ/พื้นที่) → line_notify ส่งเป็นข้อความที่ 2 ใน push เดียวกัน (โควตาไม่เพิ่ม) + สรุปประจำวัน · `--watch` · คำสั่ง "เฝ้าระวัง"/"จปร" + "สรุป" แนบการ์ด (**ผู้ใช้ต้องวางโค้ด Worker ใหม่**) · Telegram: ข้อความแยก `watchMsg` + หัวข้อในสรุปประจำวัน · `--watch` · line-test/tg-test มีตัวเลือก watch · ทดสอบกับ LINE/Telegram API จำลองแล้ว (ยังไม่ส่งจริง)
 - **คู่มือการใช้งาน** `manual/index.html` (ผู้ใช้ขอ 4 พ.ย. 69: แนะนำทุกส่วนของหน้าเว็บ เมนู ฟังก์ชัน วิธีใช้ ที่มา อ้างอิง วิธีคิด) — หน้า HTML แยก (Noto Sans Thai, สารบัญติดซ้าย + ค้นหากรองหัวข้อ, มือถือสารบัญพับ, พิมพ์ได้) 23 หมวด: ส่วนประกอบหน้าจอ (ภาพมีหมายเลขกำกับ `.ann i` ตำแหน่งเป็น % จากภาพ 1440×860) · ปุ่มเมนู · การ์ด · แผนที่ · ปุ่มควบคุม · ชั้นข้อมูลทุกชั้น · แผงรายละเอียด/โมเดลไฟ · สถิติ · เล่นย้อน · ตาราง/CSV/PDF · Windy · ความสำคัญ · วัด · วาด · ลิงก์ตรง · LINE/Telegram · ข้อมูลและวิธีคิด (สมการจริงจากโค้ด: EMC/Rothermel/Anderson/Byram/ตาราง FUEL/CBI/VPD/AQI) · แหล่งข้อมูล+อ้างอิง · ข้อจำกัด · FAQ · คำศัพท์ · ผู้ดูแลระบบ · ภาพ `manual/img/*.jpg` 40 ภาพ (~4.5 MB): ภาพหลัก/การ์ด/มือถือเปิดจุดความร้อนตัวอย่าง (ผู้ใช้ขอ 4 พ.ย. 69) + **ภาพรายสวิตช์ทุกแถวในแผงชั้นข้อมูล** `sw_*.jpg` (กล่อง `.swd` คำอธิบาย/วิธีอ่าน/ใช้ทำอะไร) + แผนที่ฐาน 5 แบบ `base_*.jpg` · รายการภาพสร้างด้วย `node scripts/manual_shots_gen.js` (ภาพรายสวิตช์ + manual_shots_base.json = ภาพอื่น) แล้วถ่ายด้วย `node scripts/manual_shots.mjs manual/img scripts/manual_shots.json` (Chrome headless ~12 นาที, ต้องเปิด serve.js พอร์ต 8000; `clipSel` ตัดภาพตาม selector; ลบ boxes.json ที่ได้ทิ้ง — ใช้คำนวณตำแหน่งหมายเลขกำกับ %) · **ไอคอนในคู่มือ = SVG จริงจาก index.html** (ปุ่มควบคุมในกรอบ `.cb`, ปุ่มเมนูใน `.btnl`, หัวข้อสวิตช์) — ผู้ใช้ไม่เอาอักขระแทน (⌖ ◇ 📏) · ถ้าเปลี่ยนไอคอนในแอปต้องแก้ในคู่มือด้วย · ปุ่ม `#bMan` ในแผงซ้าย (เดิม data-soon) = `<a target=_blank href=manual/index.html>` · build_site คัดลอก `manual/` ไป _site · **สารบัญไฮไลต์หัวข้อจากตำแหน่งจริง** (`spy` ตอน scroll: หัวข้อสุดท้ายที่ขอบบน ≤80 px, ท้ายหน้าสุด = หัวข้อที่เห็น <60% จอ; กดลิงก์ = `pin` หัวข้อที่กดจนผู้ใช้ wheel/แตะ/กดคีย์/เมาส์ — เดิมใช้ IntersectionObserver ตอนเลื่อนขึ้นไฮไลต์หัวข้อก่อนหน้า 1 ข้อ และข้อ 25 ไม่เคยไฮไลต์ ผู้ใช้แจ้ง 5 พ.ย. 69; ตรวจ headless คลิกครบ 46 ลิงก์ถูกทุกครั้ง) แล้วเลื่อนกล่องสารบัญเอง (`tocShow` ตั้ง scrollTop) — ห้ามใช้ scrollIntoView** (ผู้ใช้แจ้ง 5 พ.ย. 69: กดสารบัญเลื่อนขึ้น/กลับบนสุดแล้วหยุดกลางทาง เพราะ scrollIntoView หยุดการเลื่อนแบบนุ่มของหน้า; ตรวจ headless แล้วทุกหัวข้อหยุดตรง 16 px) · **แก้ฟีเจอร์ในหน้าเว็บแล้วควรแก้คู่มือตาม** (ตัวเลข/สูตรในหมวดวิธีคิดคัดจากโค้ด ณ 4 พ.ย. 69)
 - `data/Data_hotspots_61-69_DPYK_Full2.xlsx` — ต้นฉบับจุดย้อนหลังปีงบ 2561–2569 (3,154 จุด) จากกรมอุทยานฯ: **เฉพาะ Suomi NPP** · ปีงบ 2569 = 133 จุด (ป่าคงสภาพ 92 + พื้นที่ราษฎรทำกิน 41) ตามฉบับที่ผู้ใช้อัปเดต 29 ต.ค. 69 (ฉบับก่อนมีแค่ป่าคงสภาพ 80 จุด) · ต้นฉบับสะกดไม่คงที่: "เตรียมการเขตห้ามล่าสัตว์ป่าโคกสูง" / "เข้าตรวจสอบแล้วไม่พบไฟ" / "ตาพระยา-ปางสีดา" — ตัวนำเข้าแปลงเป็นชื่อเดิมใน dictionary ให้
